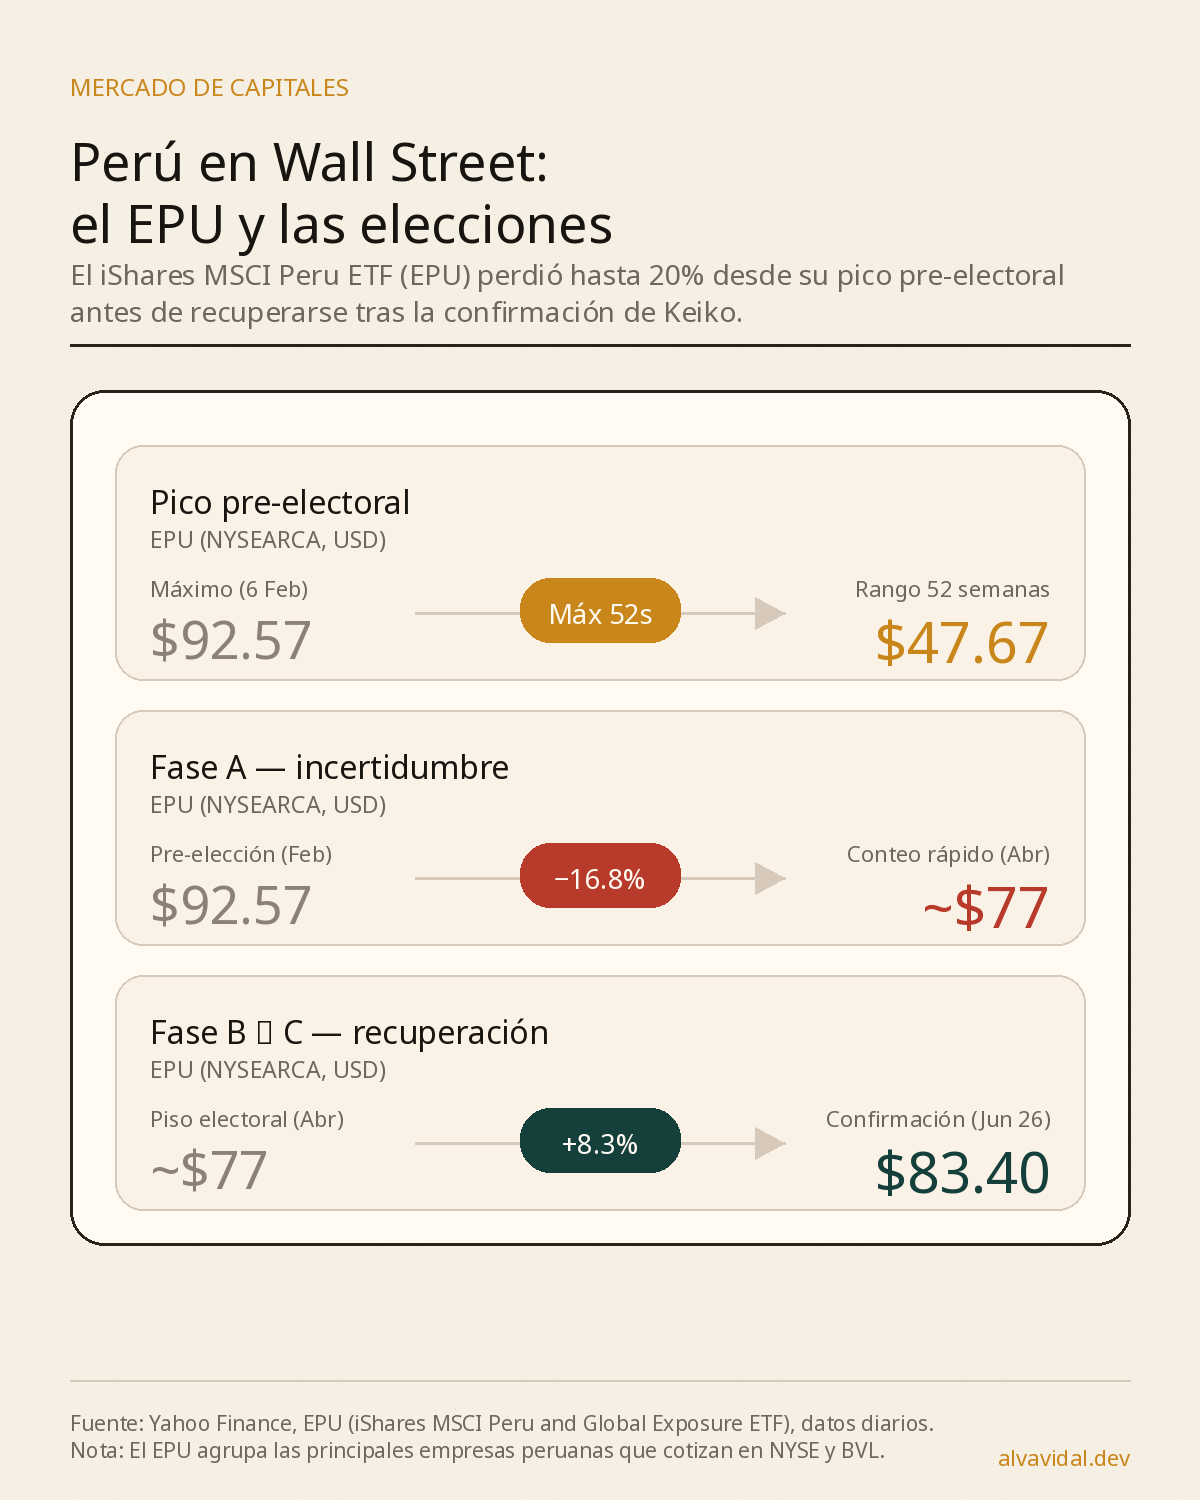
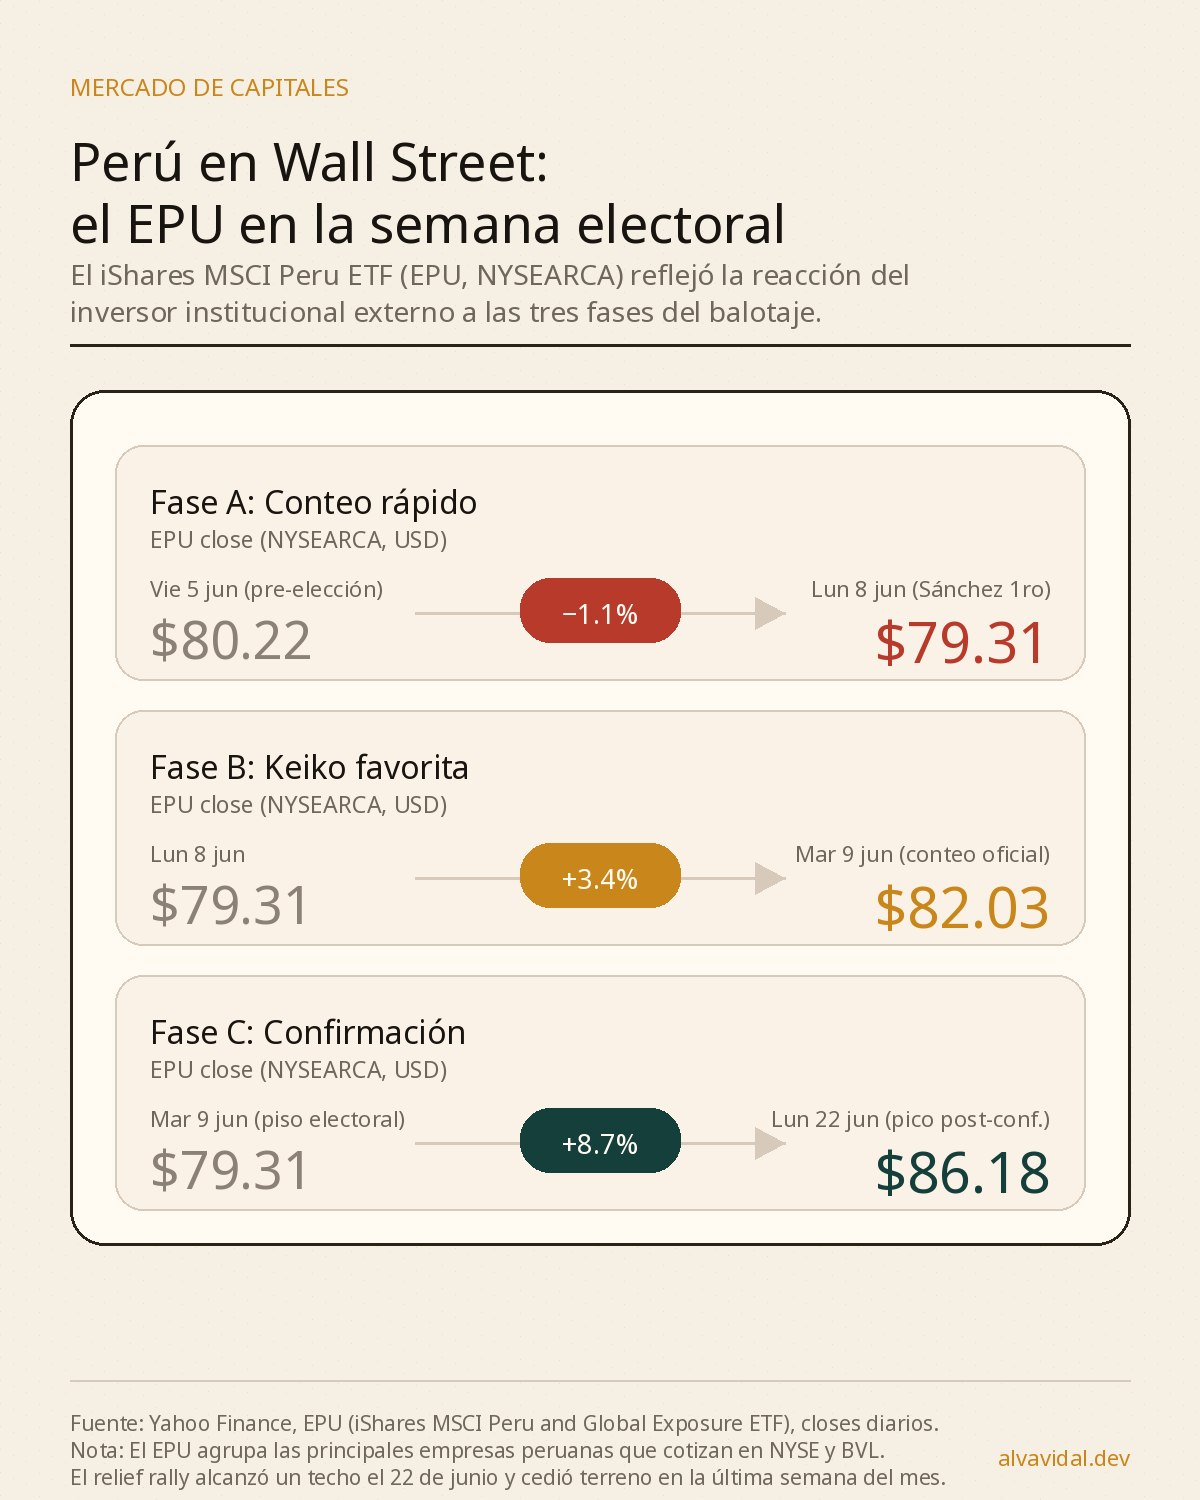
fix: correct election timeline to june 7-9 balotaje and em dashes removal

diff --git a/src/content/blogs/06_elecciones_2026_polarizacion_mercados.md b/src/content/blogs/06_elecciones_2026_polarizacion_mercados.md
@@ -6,9 +6,9 @@ description: "La elección más ajustada de la historia peruana revela un país 
 
 ## Un país que se parte en dos
 
-Cuarenta y dos mil setecientos cincuenta y nueve votos. Eso (menos del 0.3% del electorado) separó a Keiko Fujimori de Roberto Sánchez en el balotaje de 2026. El margen es incluso más estrecho que el de 2021, cuando Pedro Castillo superó a Keiko por 44 263 votos. Dos elecciones consecutivas decididas por menos de medio punto porcentual no son un accidente estadístico: son el síntoma de una fractura que la aritmética electoral vuelve visible pero que las ciencias sociales vienen diagnosticando desde hace décadas.
+Cuarenta y dos mil setecientos cincuenta y nueve votos. Eso (menos del 0.3% del electorado) separó a Keiko Fujimori de Roberto Sánchez en el balotaje del **domingo 7 de junio de 2026**. El margen es incluso más estrecho que el de 2021, cuando Pedro Castillo superó a Keiko por 44 263 votos. Dos elecciones consecutivas decididas por menos de medio punto porcentual no son un accidente estadístico: son el síntoma de una fractura que la aritmética electoral vuelve visible pero que las ciencias sociales vienen diagnosticando desde hace décadas.
 
-Este ensayo aborda las elecciones de 2026 desde dos ángulos complementarios. Primero, el mecanismo politológico: qué teorías explican una polarización tan persistente y qué nos dicen los clivajes históricos sobre el Perú de hoy. Segundo, el mecanismo de mercado: cómo reaccionaron el tipo de cambio y el mercado de capitales en tres fases (conteo rápido, ventaja de Keiko y confirmación definitiva) y qué revela esa reacción sobre la racionalidad del inversor en economías emergentes.
+Este ensayo aborda las elecciones de 2026 desde dos ángulos complementarios. Primero, el mecanismo politológico: qué teorías explican una polarización tan persistente y qué nos dicen los clivajes históricos sobre el Perú de hoy. Segundo, el mecanismo de mercado: cómo reaccionaron el tipo de cambio y el mercado de capitales en las tres fases de la semana electoral (conteo rápido con Sánchez primero, reversión del conteo oficial hacia Keiko y confirmación definitiva) y qué revela esa reacción sobre la racionalidad del inversor en economías emergentes.
 
 ## [1] El mecanismo politológico: clivajes que no cicatrizan
 
@@ -28,29 +28,33 @@ Paula Muñoz, analizando la elección de 2021, ya advertía que la debilidad ext
 
 ![Polarización electoral: resultado del balotaje 2026](/images/blogs/06_elecciones_2026_polarizacion_mercados/01_polarizacion_aritmetica.png)
 
-## [2] El mecanismo de mercado: tres actos en el tipo de cambio
+## [2] El mecanismo de mercado: tres actos en una semana
 
-Si el balotaje fue un espejo de la fractura social, el mercado cambiario fue su sismógrafo. El tipo de cambio PEN/USD, la variable más sensible al riesgo político en economías emergentes dolarizadas como la peruana, registró tres fases nítidas entre abril y junio de 2026.
+Si el balotaje fue un espejo de la fractura social, el mercado cambiario fue su sismógrafo. La elección se decidió el **domingo 7 de junio de 2026** y, en menos de 72 horas, el tipo de cambio PEN/USD recorrió las tres fases que el usuario pidió analizar: conteo rápido con Sánchez primero, reversión del conteo oficial hacia Keiko, y confirmación definitiva. Tres movimientos en una sola semana.
 
 Los datos provienen del <a href="https://estadisticas.bcrp.gob.pe/estadisticas/series/diarias/resultados/PD04639PD/html" target="_blank" rel="noopener noreferrer">BCRP</a> (serie PD04639PD, tipo de cambio bancario compra) y de <a href="https://finance.yahoo.com/quote/EPU/" target="_blank" rel="noopener noreferrer">Yahoo Finance</a> (EPU, iShares MSCI Peru ETF, NYSEARCA).
 
-### Fase A: Conteo rápido. Sánchez primero, el sol tiembla (27–29 abr)
+### Fase A: Conteo rápido. Sánchez primero, el sol tiembla (domingo 7 a lunes 8 de junio)
 
-Cuando los primeros resultados a boca de urna y el conteo rápido mostraron a Sánchez en primer lugar, el tipo de cambio saltó de S/ 3.455 (1 de abril) a S/ 3.523 el 29 de abril, su nivel más alto del primer semestre. En paralelo, el EPU (el ETF que agrupa a las principales empresas peruanas que cotizan en Wall Street) cayó de un pico pre-electoral de USD $92.57 (6 de febrero) a aproximadamente USD $77 hacia fines de abril, una pérdida de casi 17%.
+El domingo 7 de junio, apenas cerradas las mesas, las bocas de urna y el conteo rápido de la ONPE mostraron a Roberto Sánchez en primer lugar. El mercado no esperó: el lunes 8 de junio el PEN se depreció a S/ 3.488, su nivel más alto desde finales de marzo. Frente al cierre del viernes 5 (S/ 3.442), el sol peruano perdía 4.6 centavos por dólar en una jornada.
 
-El mercado no estaba reaccionando a Sánchez como individuo sino al proyecto que representaba: una agenda que incluía regulación minera más estricta, renegociación de contratos de explotación de recursos naturales y una política fiscal expansiva. Para un país cuya canasta exportadora depende en más del 60% de la minería y donde el tipo de cambio es el principal mecanismo de transmisión de la incertidumbre política a la economía real, la señal era inequívoca.
+En paralelo, el EPU (el ETF que agrupa a las principales empresas peruanas que cotizan en Wall Street) cayó a USD $79.31 desde los $80.22 del viernes pre-electoral. El mercado no estaba reaccionando a Sánchez como individuo sino al proyecto que representaba: una agenda que incluía regulación minera más estricta, renegociación de contratos de explotación de recursos naturales y una política fiscal expansiva. Para un país cuya canasta exportadora depende en más del 60% de la minería, la señal del conteo rápido era inequívoca.
 
-### Fase B: Keiko favorita. El sol se aprecia (4–14 may)
+Cabe aclarar que la caída fue moderada: el mercado ya había descontado parte del riesgo electoral en abril y mayo, cuando el PEN había tocado S/ 3.523 (29 de abril) y el EPU había caído del orden de USD $87 a USD $77 durante la campaña. La fase A no fue un shock, sino el descuento final del escenario Sánchez.
 
-Conforme el conteo oficial de la ONPE revirtió la ventaja inicial y Keiko pasó al frente, el PEN se apreció de S/ 3.512 (4 de mayo) a S/ 3.413 (14 de mayo), una reducción de 3.1% en diez días. El EPU rebotó de ~USD $77 a ~USD $86. La velocidad de la corrección sugiere que los inversores habían sobre-ponderado el escenario Sánchez y que el retorno a la continuidad pro-mercado fue recibido con alivio.
+### Fase B: Keiko favorita. El sol se aprecia (martes 9 de junio)
 
-Pero hay un matiz importante: el mercado no estaba premiando a Keiko *per se*, sino descontando el riesgo de un giro regulatorio brusco. En economías emergentes con instituciones frágiles, la previsibilidad del *policy mix* importa más que la ideología del gobernante. Keiko, con un historial de dos décadas en la escena pública y un programa económico conocido, ofrecía lo que los mercados más valoran en contextos de incertidumbre: continuidad.
+El martes 9 de junio, conforme el conteo oficial de la ONPE revirtió la ventaja inicial y Keiko Fujimori pasó al frente, el PEN colapsó a S/ 3.372: una apreciación de 3.3% en una sola jornada, el movimiento diario más violento del primer semestre. El EPU saltó de USD $79.31 a USD $82.03, una recuperación de 3.4% en una jornada.
 
-### Fase C: Confirmación. La certeza vale más que la ideología (8–9 jun)
+Es un matiz importante: el mercado no estaba premiando a Keiko *per se*, sino descontando el riesgo de un giro regulatorio brusco. En economías emergentes con instituciones frágiles, la previsibilidad del *policy mix* importa más que la ideología del gobernante. Keiko, con un historial de dos décadas en la escena pública y un programa económico conocido, ofrecía lo que los mercados más valoran en contextos de incertidumbre: continuidad.
 
-El 8 de junio, con la impugnación de Sánchez todavía sin resolverse, el tipo de cambio se disparó a S/ 3.488. Al día siguiente, cuando los organismos electorales confirmaron definitivamente a Keiko, el PEN colapsó a S/ 3.372: una apreciación de 3.3% en una sola jornada, el movimiento diario más violento del semestre. El EPU alcanzó USD $88.88 el 12 de junio, su nivel más alto desde febrero.
+### Fase C: Confirmación. La certeza vale más que la ideología (10 al 22 de junio)
 
-Esta secuencia (spike por incertidumbre institucional, crash por resolución) es quizás la lección más importante del ciclo electoral 2026 para los mercados: **lo que el inversor castiga no es la ideología del ganador sino la ausencia de un ganador claro**. La certeza, incluso cuando confirma a un candidato que no era el favorito del *establishment* financiero, es preferible a la ambigüedad. Ocho días de impugnación le costaron al sol peruano casi cinco centavos.
+Conforme la ventaja de Keiko se consolidó y los organismos electorales confirmaron su victoria, el PEN se estabilizó en el rango más ordenado del semestre: S/ 3.37 a S/ 3.40 entre el 10 y el 25 de junio. El EPU escaló hasta USD $86.18 el 22 de junio, su nivel más alto desde mayo, reflejando el alivio del inversor externo.
+
+Esta secuencia, del spike por incertidumbre institucional al crash por resolución, es quizás la lección más importante de la semana electoral para los mercados: **lo que el inversor castiga no es la ideología del ganador, sino la ausencia de un ganador claro**. La certeza, incluso cuando confirma a un candidato que no era el favorito del *establishment* financiero, es preferible a la ambigüedad.
+
+Quienes esperaron a Sánchez para comprar PEN pagaron S/ 3.488; quienes entraron el 9 de junio, S/ 3.372. La diferencia, 11.6 centavos por dólar en 24 horas, es el costo concreto que la incertidumbre institucional le impuso al sol peruano. Hacia fin de mes, sin embargo, el *relief rally* encontró su techo: el EPU cedió a USD $78.18 el 26 de junio, sugiriendo que el alivio electoral comenzó a desvanecerse ante preocupaciones de gobernabilidad post-electoral.
 
 ![Tipo de cambio PEN/USD en tres actos electorales](/images/blogs/06_elecciones_2026_polarizacion_mercados/02_reaccion_cambiaria.png)
 
@@ -63,7 +67,7 @@ Los mercados financieros son mecanismos eficientes de agregación de informació
 1. **Lo peor es la incertidumbre institucional.** Un resultado impugnado, una transición trabada o un vacío de poder son más costosos que cualquier resultado electoral específico.
 2. **La ideología importa, pero menos que la predictibilidad.** El mercado penalizó más la sorpresa (Sánchez primero en conteo rápido) que la orientación ideológica (Keiko confirmada).
 3. **La minería es la variable sensible.** El clivaje más relevante para los mercados no es izquierda/derecha en abstracto, sino el régimen de explotación de recursos naturales. Cada punto de incertidumbre sobre regulación minera se tradujo en volatilidad cambiaria.
-4. **El inversor externo vota con el pie.** El EPU perdió casi USD $16 por acción (de $92.57 a ~$77) en el *sell-off* pre-electoral. Ese capital no vuelve automáticamente: la recuperación a $83.40 al cierre de junio sugiere que el mercado ya descontó la victoria de Keiko pero todavía no internalizó plenamente la gobernabilidad posterior.
+4. **El inversor externo vota con el pie.** El EPU cayó del orden de USD $87 a USD $77 durante la incertidumbre pre-electoral (abril a mayo), y tocó un piso de USD $79.31 el lunes 8 de junio al abrirse el mercado al conteo rápido. La recuperación tras la confirmación de Keiko no fue lineal: el ETF escaló hasta USD $86.18 el 22 de junio, pero cedió a USD $78.18 hacia fin de mes, sugiriendo que el alivio electoral fue más débil de lo que el movimiento cambiario reflejaba.
 
 Dicho esto, los mercados no miden (ni pretenden medir) la calidad democrática, la cohesión social ni la legitimidad percibida de las instituciones. Una elección que el mercado celebra puede ser, simultáneamente, una elección que profundiza la polarización perniciosa. La discrepancia entre la señal del tipo de cambio (estabilidad) y la señal de las calles (mitad del país que no reconoce al gobierno) es quizás la tensión más delicada del Perú post-2026.
 
@@ -79,7 +83,7 @@ Nada de eso es técnicamente imposible, pero todo es políticamente costoso. Y e
 
 Para el analista financiero, la elección de 2026 deja tres enseñanzas:
 
-- **La cobertura cambiaria no es opcional en años electorales peruanos.** Una volatilidad de 5.1% en el PEN/USD entre el piso de enero (S/ 3.346) y el pico electoral (S/ 3.523) justifica instrumentos de cobertura para cualquier empresa con exposición al tipo de cambio.
+- **La cobertura cambiaria no es opcional en años electorales peruanos.** Durante el primer semestre de 2026 el PEN/USD osciló entre S/ 3.346 (enero) y S/ 3.523 (29 de abril, incertidumbre pre-electoral), con un spike adicional a S/ 3.488 el lunes posterior al balotaje (8 de junio). Esa volatilidad justifica instrumentos de cobertura para cualquier empresa con exposición al tipo de cambio.
 - **El *event-driven trading* en mercados emergentes sigue patrones predecibles.** La secuencia incertidumbre → *sell-off* → resolución → *relief rally* se repitió en 2021 y 2026 con precisión casi mecánica. El inversor que internaliza ese patrón puede posicionarse antes del *relief rally*.
 - **El riesgo político no termina con la elección.** La gobernabilidad post-electoral (mayorías parlamentarias, conflictos sociales, riesgo de *impeachment*) es la variable que los mercados subestiman sistemáticamente y que define la trayectoria de mediano plazo.
 